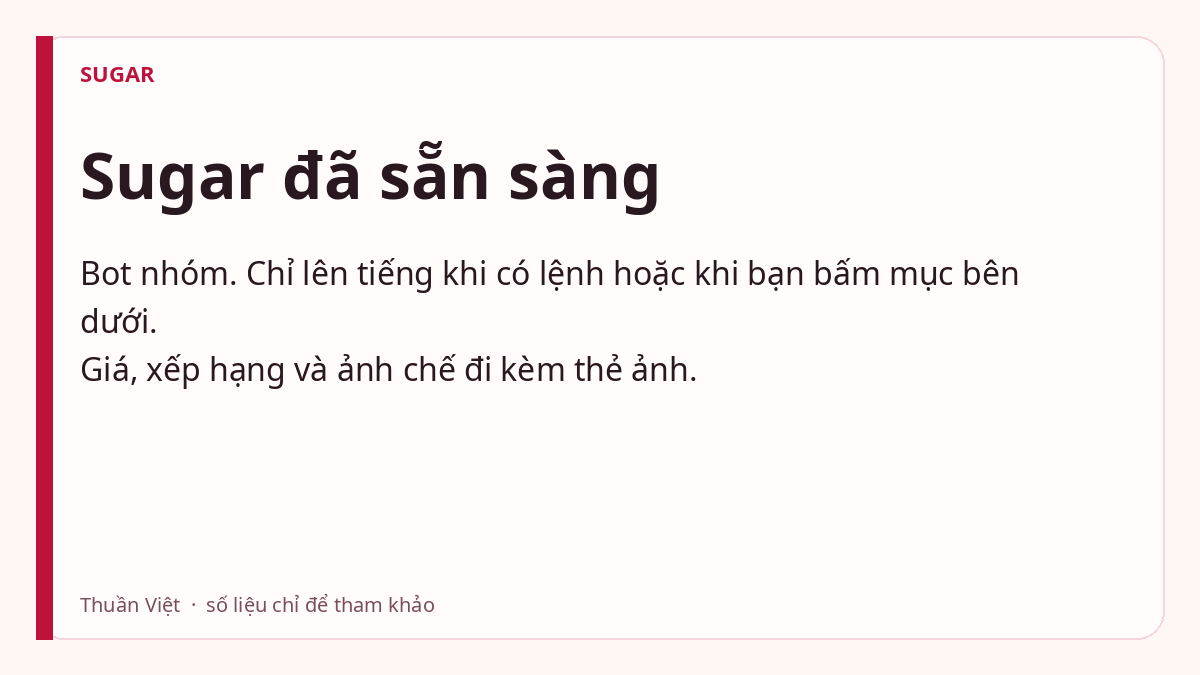
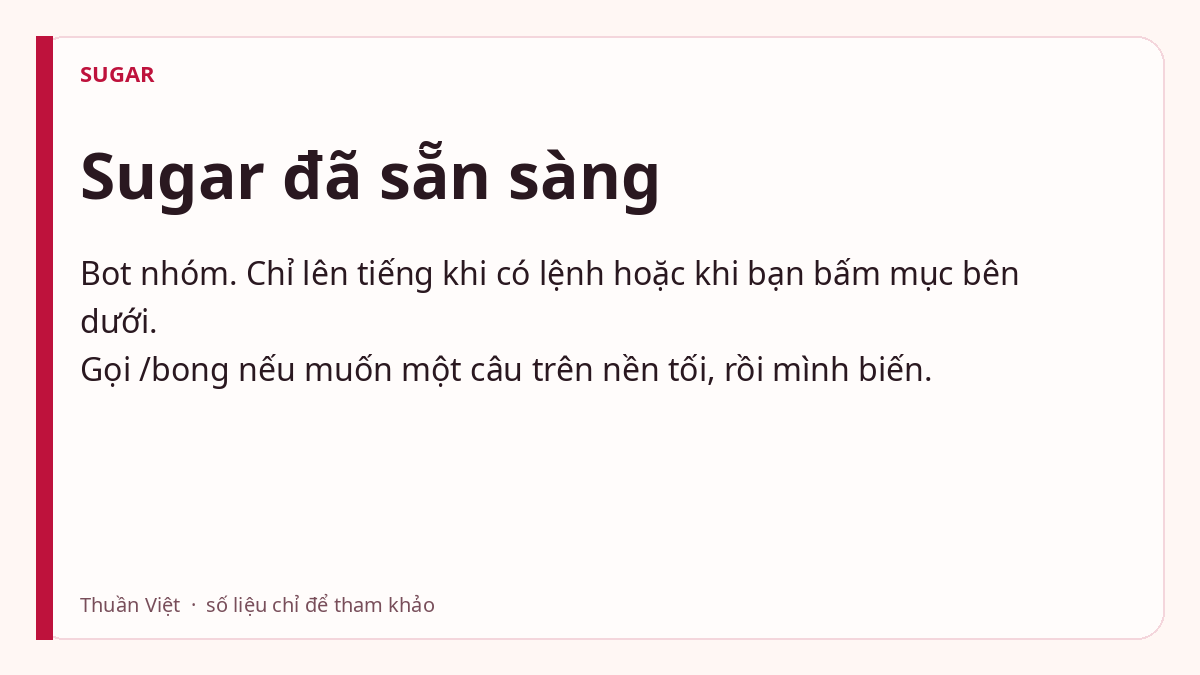
Add files via upload

Changed region(s): [[0.0925, 0.5289, 0.7708, 0.5911]]

diff --git a/bot.py b/bot.py
@@ -58,6 +58,7 @@ MENU = [
     ("tamtinh", "Tâm sự ẩn với nhóm"),
     ("thamthuy", "Câu nói thâm"),
     ("treu", "Trêu nhẹ thị trường"),
+    ("bong", "Hiện một câu rồi biến"),
     ("noiquy", "Nội quy nhóm"),
 ]
 
@@ -88,6 +89,7 @@ ALIASES = {
     "confess": "tamtinh",
     "roast": "treu",
     "rules": "noiquy",
+    "ghost": "bong",
 }
 
 GROUPS = {
@@ -119,6 +121,7 @@ GROUPS = {
         "/tamtinh <nội dung> — tâm sự ẩn danh",
         "/thamthuy — câu nói thâm",
         "/treu — trêu nhẹ thị trường",
+        "/bong — hiện một câu rồi biến",
     ],
 }
 
@@ -232,6 +235,7 @@ class CommandRouter:
             "tamtinh": self.cmd_confess,
             "thamthuy": self.cmd_quote,
             "treu": self.cmd_roast,
+            "bong": self.cmd_ghost,
         }
 
     def reply(self, text: str, ctx: dict | None = None) -> Out | None:
@@ -275,8 +279,35 @@ class CommandRouter:
         return Out(f"Còn đây. Lệnh tới sau {lag} mili giây.")
 
     def cmd_meme(self, args: str, ctx: dict) -> Out:
+        if self.online:
+            fetched = self.fetch_meme()
+            if fetched:
+                return fetched
         line = self.rng.choice(FUN["meme_lines"])
         return Out(line, photo=cards.meme_card(line))
+
+    def fetch_meme(self) -> Out | None:
+        subs = ("cryptocurrencymemes", "CryptoMemes", "memes")
+        for _ in range(3):
+            sub = self.rng.choice(subs)
+            try:
+                data = http_json(f"https://meme-api.com/gimme/{sub}")
+                if data.get("nsfw") or data.get("spoiler"):
+                    continue
+                url = data.get("url") or ""
+                if not url.lower().split("?")[0].endswith((".jpg", ".jpeg", ".png", ".webp")):
+                    continue
+                req = urllib.request.Request(url, headers={"User-Agent": "SugarBot/1.0"})
+                with urllib.request.urlopen(req, timeout=20) as resp:
+                    blob = resp.read()
+                if not 1000 <= len(blob) <= 8_000_000:
+                    continue
+            except Exception:
+                continue
+            title = (data.get("title") or "Ảnh chế").strip()
+            source = data.get("subreddit") or sub
+            return Out(f"{title}\nNguồn: {source}", photo=blob)
+        return None
 
     def cmd_joke(self, args: str, ctx: dict) -> Out:
         return Out(self.rng.choice(FUN["jokes"]))
@@ -326,6 +357,10 @@ class CommandRouter:
 
     def cmd_roast(self, args: str, ctx: dict) -> Out:
         return Out("Thị trường không cần bị trêu. Caption lãi lỗ mới cần bị cắt một nửa.")
+
+    def cmd_ghost(self, args: str, ctx: dict) -> Out:
+        line = args[:180] if args else self.rng.choice(FUN["ghost"])
+        return Out(line, photo=cards.ghost_card(line), anonymous=True)
 
     def cmd_calc(self, args: str, ctx: dict) -> Out:
         if not args:

diff --git a/cards.py b/cards.py
@@ -8,8 +8,9 @@ from pathlib import Path
 
 from PIL import Image, ImageDraw, ImageFont
 
-FONT = "/usr/share/fonts/truetype/noto/NotoSans-Regular.ttf"
-FONT_BOLD = "/usr/share/fonts/truetype/noto/NotoSans-Bold.ttf"
+FONT_DIR = Path(__file__).resolve().parent.parent / "assets" / "fonts"
+FONT = str(FONT_DIR / "NotoSans-Regular.ttf")
+FONT_BOLD = str(FONT_DIR / "NotoSans-Bold.ttf")
 
 INK = (42, 24, 32)
 MUTED = (120, 78, 90)
@@ -65,7 +66,7 @@ def welcome_card() -> bytes:
     draw.text((80, 130), "Sugar đã sẵn sàng", font=font(64, True), fill=INK)
     body = wrap(
         draw,
-        "Bot nhóm. Chỉ lên tiếng khi có lệnh hoặc khi bạn bấm mục bên dưới.\nGiá, xếp hạng và ảnh chế đi kèm thẻ ảnh.",
+        "Bot nhóm. Chỉ lên tiếng khi có lệnh hoặc khi bạn bấm mục bên dưới.\nGọi /bong nếu muốn một câu trên nền tối, rồi mình biến.",
         font(32),
         980,
     )
@@ -119,6 +120,21 @@ def list_card(title: str, rows: list[str], footer: str) -> bytes:
     return finish(image, draw, footer)
 
 
+def ghost_card(line: str) -> bytes:
+    image = Image.new("RGB", (1200, 675), (18, 16, 20))
+    draw = ImageDraw.Draw(image)
+    draw.rectangle((0, 0, 10, 675), fill=(214, 196, 188))
+    draw.text((72, 64), "BÓNG", font=font(22, True), fill=(214, 196, 188))
+    y = 200
+    for row in wrap(draw, line, font(52, True), 1000):
+        draw.text((72, y), row, font=font(52, True), fill=(245, 240, 236))
+        y += 74
+    draw.text((72, 590), "Hiện một lần  ·  không ngồi lại", font=font(20), fill=(150, 138, 132))
+    buf = io.BytesIO()
+    image.save(buf, format="PNG", optimize=True)
+    return buf.getvalue()
+
+
 def save_samples(folder: Path) -> None:
     folder.mkdir(parents=True, exist_ok=True)
     (folder / "chao.png").write_bytes(welcome_card())
@@ -126,7 +142,7 @@ def save_samples(folder: Path) -> None:
         price_card("Bitcoin", "BTC", "63.420 USD", "1.612.450.000 đ", "+2,4% trong 24 giờ", True)
     )
     (folder / "camxuc.png").write_bytes(mood_card(28, "Sợ hãi"))
-    (folder / "anhche.png").write_bytes(meme_card("Vừa bảo dài hạn, vừa mở sổ lệnh mỗi bốn phút."))
+    (folder / "bong.png").write_bytes(ghost_card("Có người vừa gọi. Mình ở tới hết câu này."))
 
 
 if __name__ == "__main__":

diff --git a/selftest.py b/selftest.py
@@ -19,7 +19,7 @@ def main() -> None:
 
     check("im tin thuong", router.reply("hi bro") is None)
     start = router.reply("/batdau")
-    check("chao co anh", start is not None and start.photo is not None and "sẵn sàng" in start.text)
+    check("chao co anh", start is not None and start.photo is not None and "/bong" in start.text)
     help_text = router.reply("Công cụ").text
     check("cong cu thuan viet", "/thoittiet" in help_text and "weather" not in help_text.lower())
     market = router.reply("Thị trường").text
@@ -38,6 +38,10 @@ def main() -> None:
     confess = router.reply("/tamtinh hôm nay chốt non")
     check("tam tinh an", confess.anonymous and "chốt non" in confess.text)
     check("lenh la", extract_command("/Gia@Sugar_Bot btc", "sugar_bot") == ("gia", "btc"))
+    ghost = router.reply("/bong")
+    check("bong co the toi", ghost.photo is not None and ghost.anonymous and "AI" not in ghost.text)
+    check("ghost alias", router.reply("/ghost").photo is not None)
+    check("bong loi rieng", "đừng tag" in (router.reply("/bong đừng tag tên").text))
     menu = router.reply("/trogiup").text
     check("help khong tieng anh lenh", "ping" not in menu and "meme" not in menu)
 

diff --git a/commands.md b/commands.md
@@ -9,6 +9,7 @@ Công cụ, Thị trường, Vui / Giao lưu, Nội quy. These are reply-keyboar
 | Command | Source | On failure |
 |---|---|---|
 | /gia /xephang | CoinGecko public | `source_fail` or "không thấy mã" |
+| /anhche /meme | meme-api.com, bỏ ảnh nhạy cảm. Hết nguồn thì thẻ chữ | thẻ chữ dự phòng |
 | /socamxuc | alternative.me fear-and-greed | `source_fail` |
 | /chungkhoan | Stooq CSV | per-index "chưa lấy được" |
 | /tintuc | VnExpress RSS | `source_fail` |
@@ -22,6 +23,14 @@ Do not scrape a page to fill a price.
 ## Images
 
 `cards.welcome_card`, `price_card`, `mood_card`, `meme_card`, `list_card` return PNG bytes. Poller sends them with `sendPhoto` and the persistent keyboard.
+
+## Railway
+
+Rainway streams a home screen. It does not host this process. Railway does.
+
+Deploy this folder as one worker. Start command: `python scripts/bot.py`. Set `TELEGRAM_BOT_TOKEN` in the service variables. Do not add a public domain. One replica only. The bot stays up while that service is running and the account can pay the usage.
+
+
 
 ## Webhook
 

diff --git a/CHANGELOG.md b/CHANGELOG.md
@@ -2,4 +2,4 @@
 
 ## 2026-10-01
 - Initial skill: slash-only Telegram bot, Kèo persona, trend deck, long-polling runner, selftest.
-- Rebuilt as Sugar: Vietnamese menu and buttons, image cards, market/tools/fun commands, hidden English aliases, dev notes removed from rules.
+- /meme and /anhche pull a random image from meme-api.com, skip nsfw, fall back to a text card.
